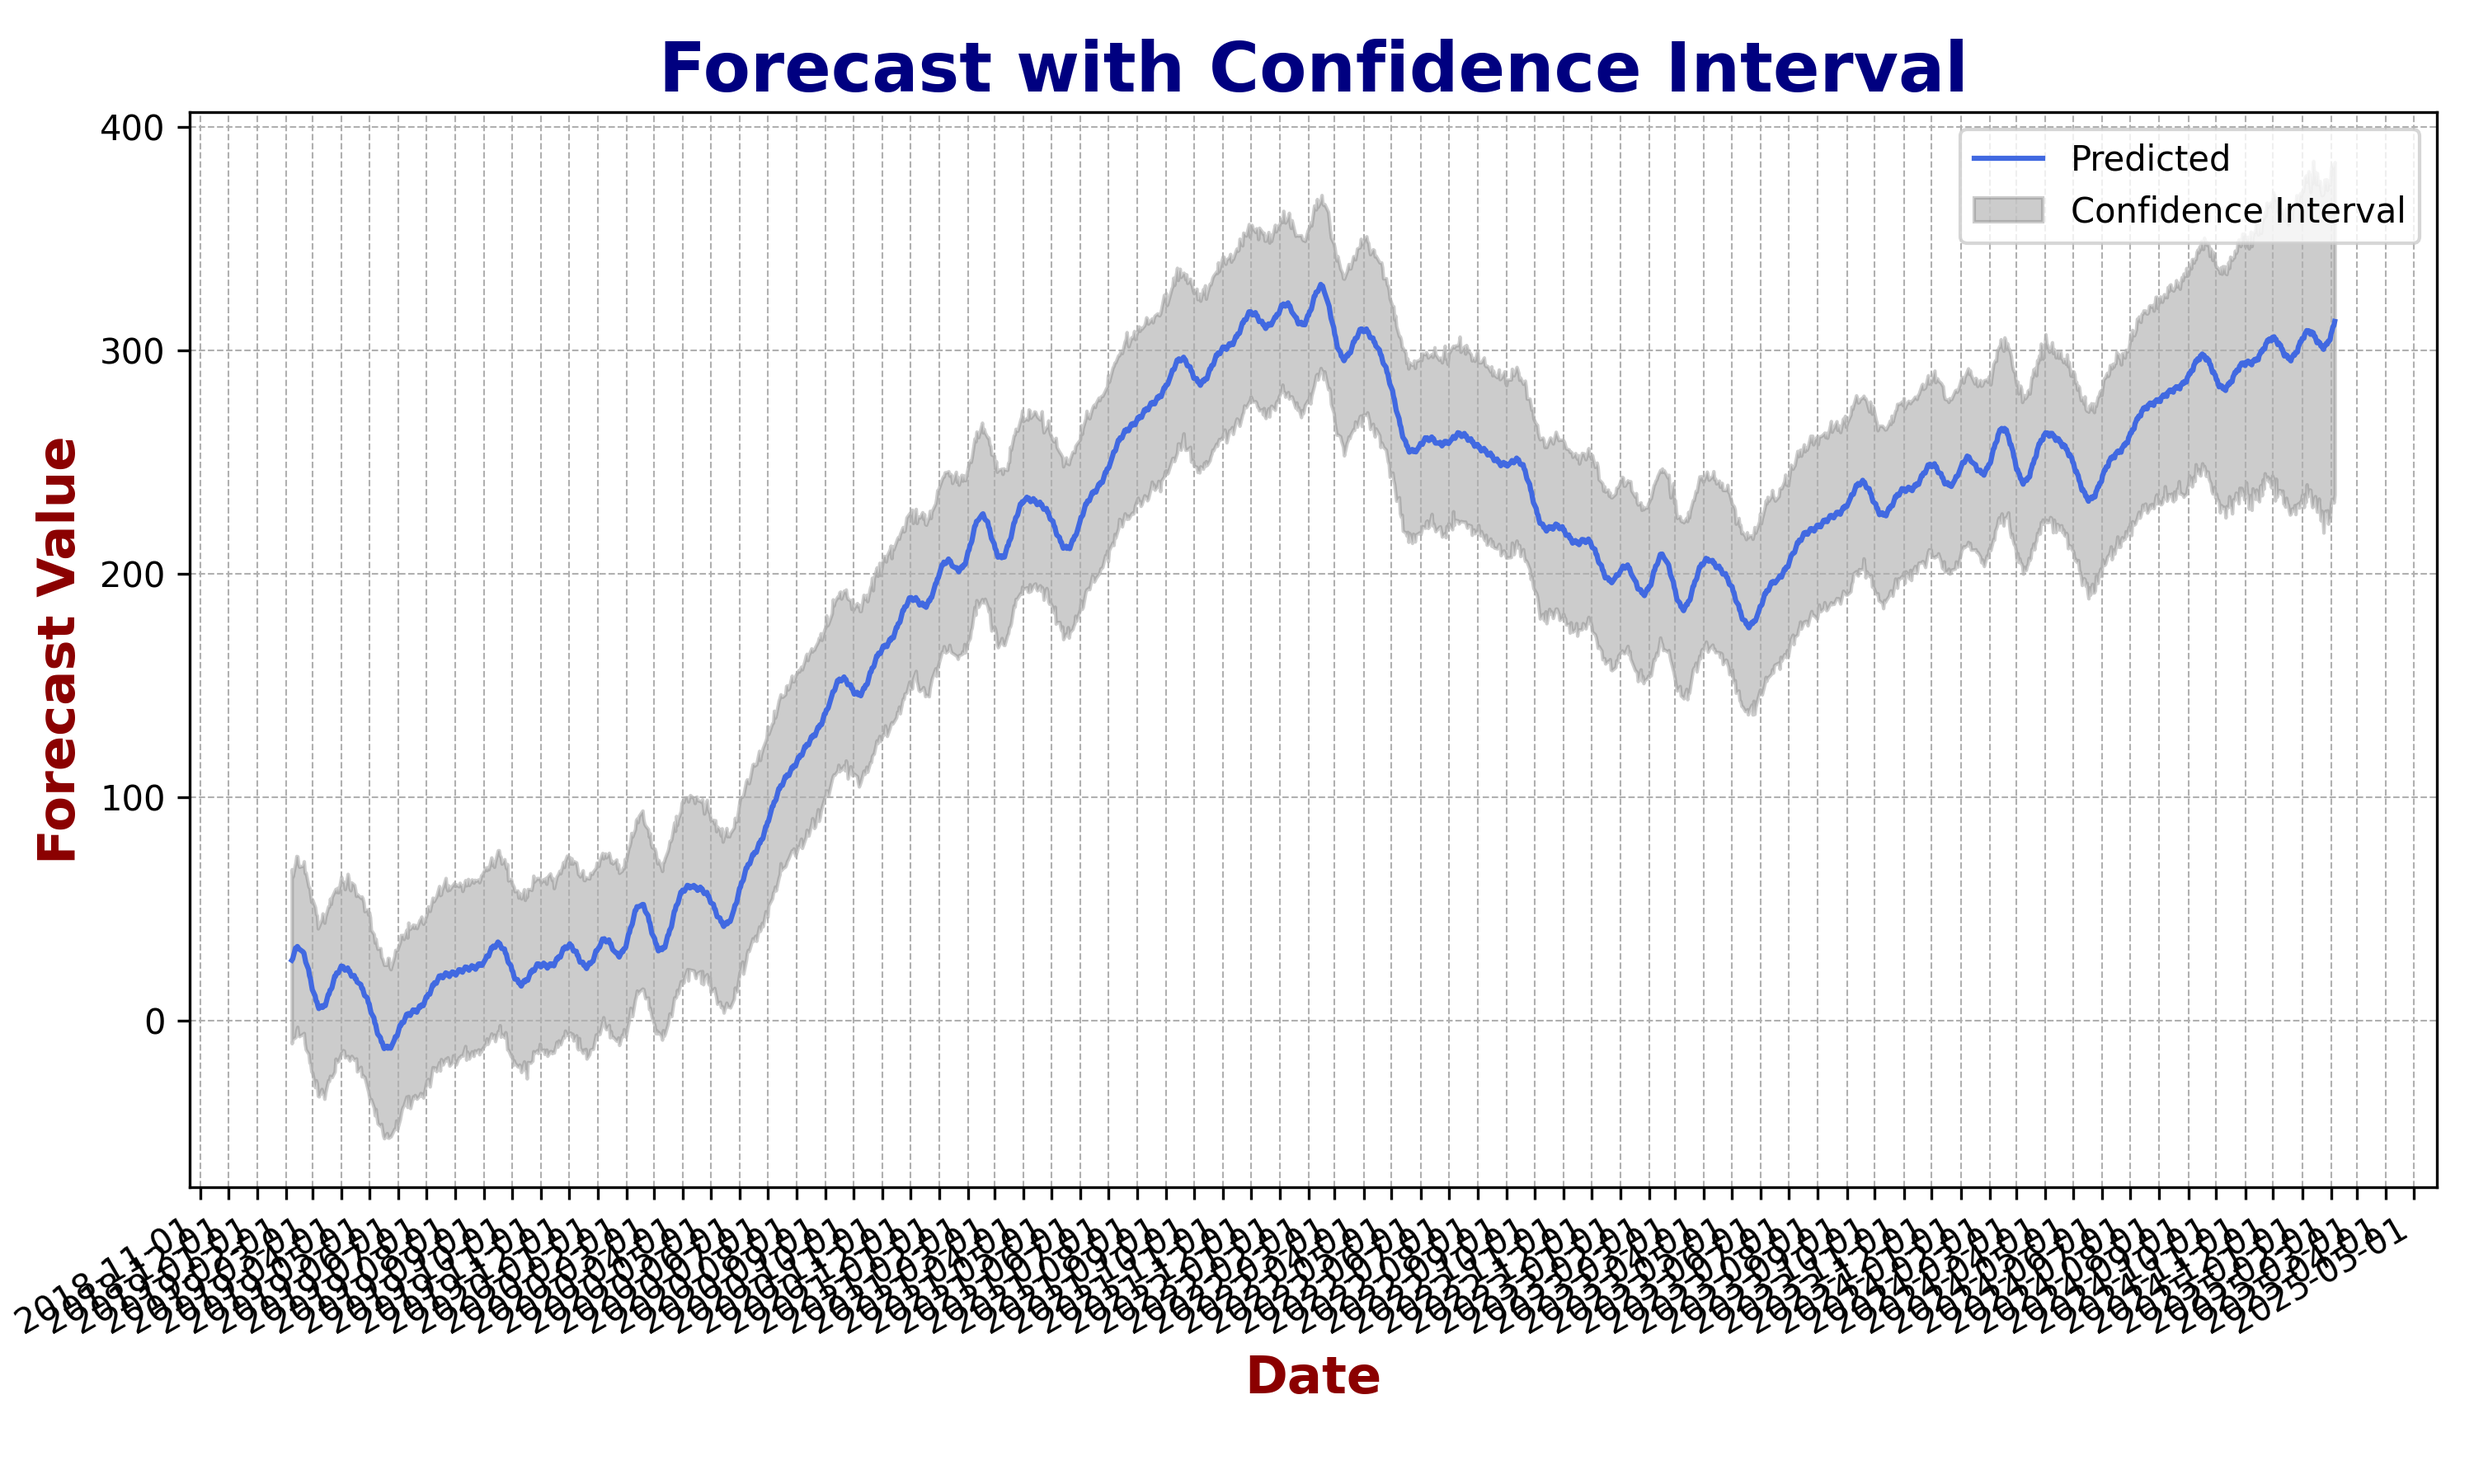
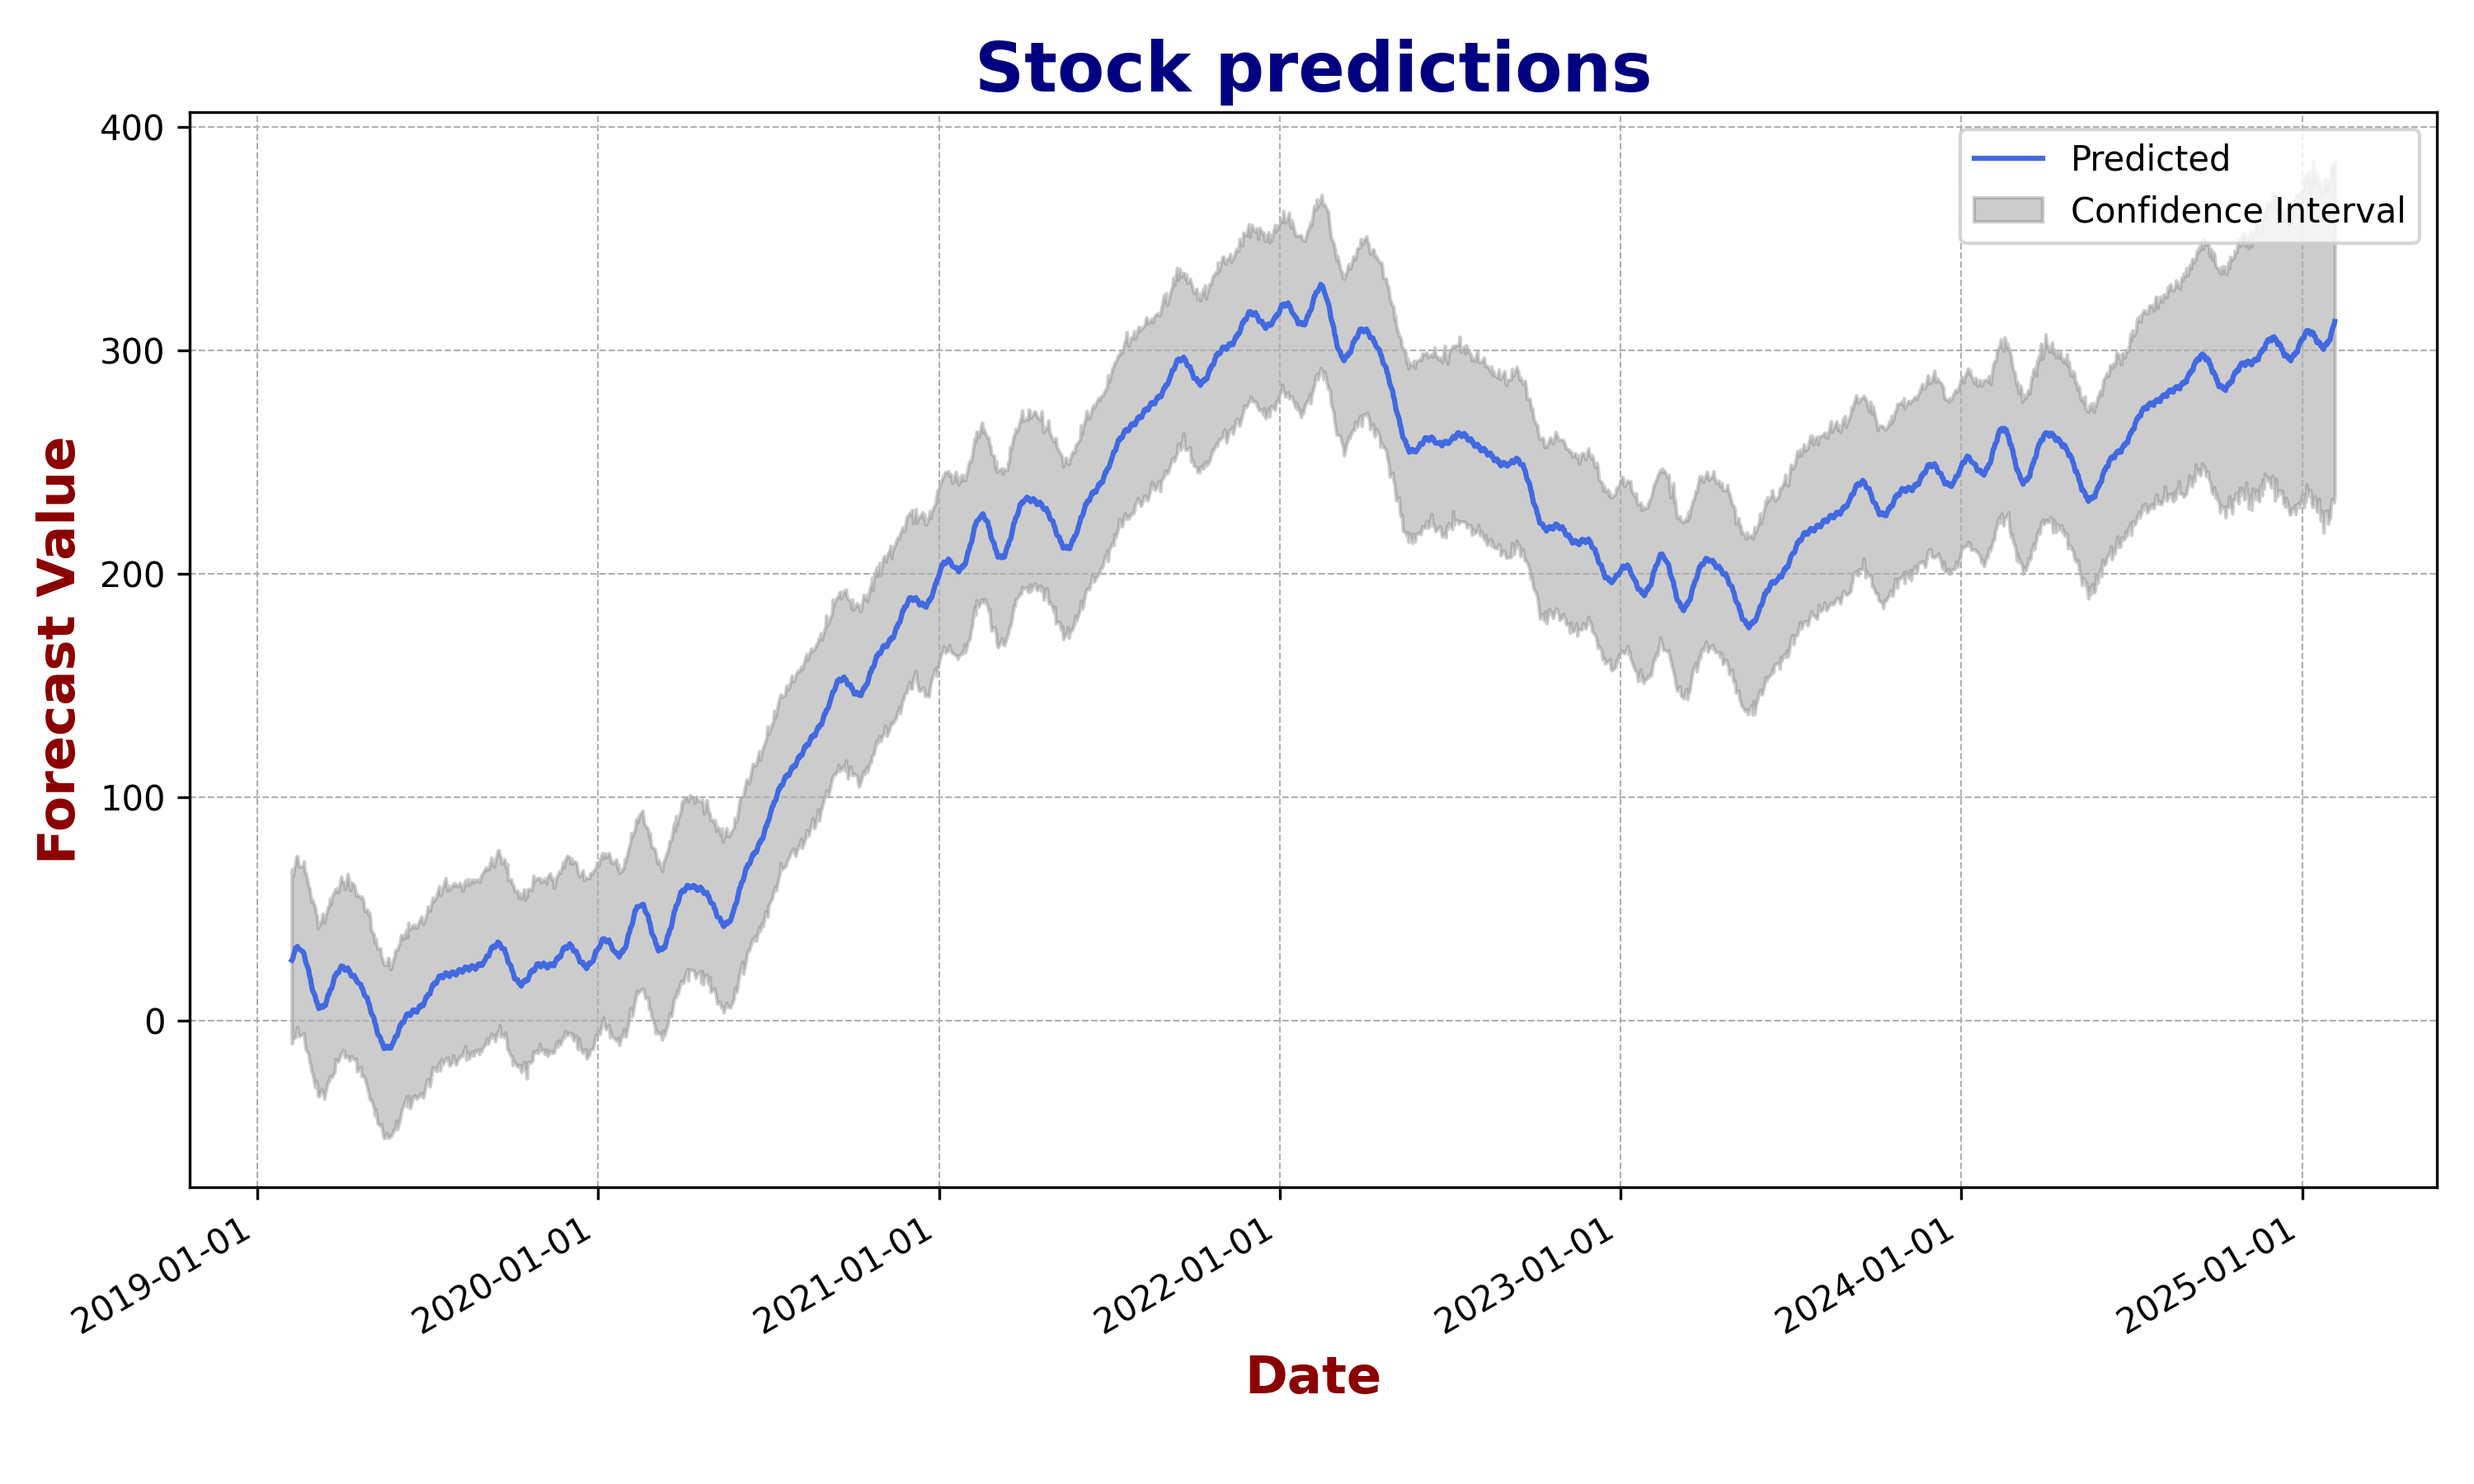
maded the convert look yearly

Changed region(s): [[0.0, 0.8089, 0.961, 0.9022], [0.248, 0.0311, 0.806, 0.0622]]

diff --git a/python/convert.py b/python/convert.py
@@ -18,7 +18,7 @@ plt.plot(df['ds'], df['yhat'], label='Predicted', color='royalblue')
 plt.fill_between(df['ds'], df['yhat_lower'], df['yhat_upper'], color='grey', alpha=0.4, label='Confidence Interval')
 
 # Styling the plot
-plt.title('Forecast with Confidence Interval', fontsize=20, fontweight='bold', color='navy')
+plt.title('Stock predictions', fontsize=20, fontweight='bold', color='navy')
 plt.xlabel('Date', fontsize=15, fontweight='bold', color='darkred')
 plt.ylabel('Forecast Value', fontsize=15, fontweight='bold', color='darkred')
 plt.legend()
@@ -27,7 +27,7 @@ plt.tight_layout()
 
 # Format the date on the x-axis
 plt.gca().xaxis.set_major_formatter(mdates.DateFormatter('%Y-%m-%d'))
-plt.gca().xaxis.set_major_locator(mdates.MonthLocator())
+plt.gca().xaxis.set_major_locator(mdates.YearLocator())
 plt.gcf().autofmt_xdate()  # Improve formatting of the date labels
 
 # Save the plot to a file
